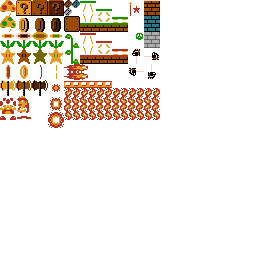
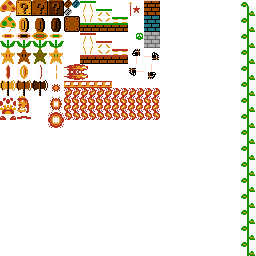
Add visual vine, cannot climb it yet.

Changed region(s): [[0.9375, 0.0, 1.0, 1.0], [0.25, 0.125, 0.3125, 0.25]]

diff --git a/src/vine.cpp b/src/vine.cpp
@@ -1,0 +1,25 @@
+#include "vine.h"
+
+#include <sp2/graphics/textureManager.h>
+#include <sp2/graphics/meshdata.h>
+
+Vine::Vine(sp::P<sp::Node> parent)
+: sp::Node(parent)
+{
+    render_data.type = sp::RenderData::Type::Normal;
+    render_data.shader = sp::Shader::get("internal:basic.shader");
+    render_data.texture = sp::textureManager.get("items.png");
+    render_data.order = -1;
+
+    size = 0.0;
+}
+
+void Vine::onFixedUpdate()
+{
+    if (getPosition2D().y + size / 2 < 12)
+    {
+        size += 0.1;
+        setPosition(getPosition2D() + sp::Vector2d(0, 0.05));
+    }
+    render_data.mesh = sp::MeshData::createQuad(sp::Vector2f(1, size), sp::Vector2f(15.0/16.0, 0), sp::Vector2f(16.0/16.0, size/16.0));
+}

diff --git a/src/questionBlock.cpp b/src/questionBlock.cpp
@@ -2,6 +2,7 @@
 
 #include "playerPawn.h"
 #include "savegame.h"
+#include "vine.h"
 #include "pickup/smb/upgrade.h"
 #include "pickup/smb/life.h"
 #include "pickup/smb/star.h"
@@ -105,6 +106,7 @@ void QuestionBlock::onCollision(sp::CollisionInfo& info)
                 sp::audio::Sound::play("sfx/smb_powerup_appears.wav");
                 break;
             case Contents::Vine:
+                (new Vine(getParent()))->setPosition(sp::Vector2d(int(getPosition2D().x) + 0.5, int(getPosition2D().y) + 1.0));
                 break;
             case Contents::Life:
                 (new LifePickup(getParent()))->setPosition(getPosition2D());

diff --git a/src/vine.h b/src/vine.h
@@ -1,0 +1,16 @@
+#ifndef VINE_H
+#define VINE_H
+
+#include <sp2/scene/node.h>
+
+class Vine : public sp::Node
+{
+public:
+    Vine(sp::P<sp::Node> parent);
+
+    virtual void onFixedUpdate() override;
+private:
+    float size;
+};
+
+#endif//TRAMPOLINE_H
